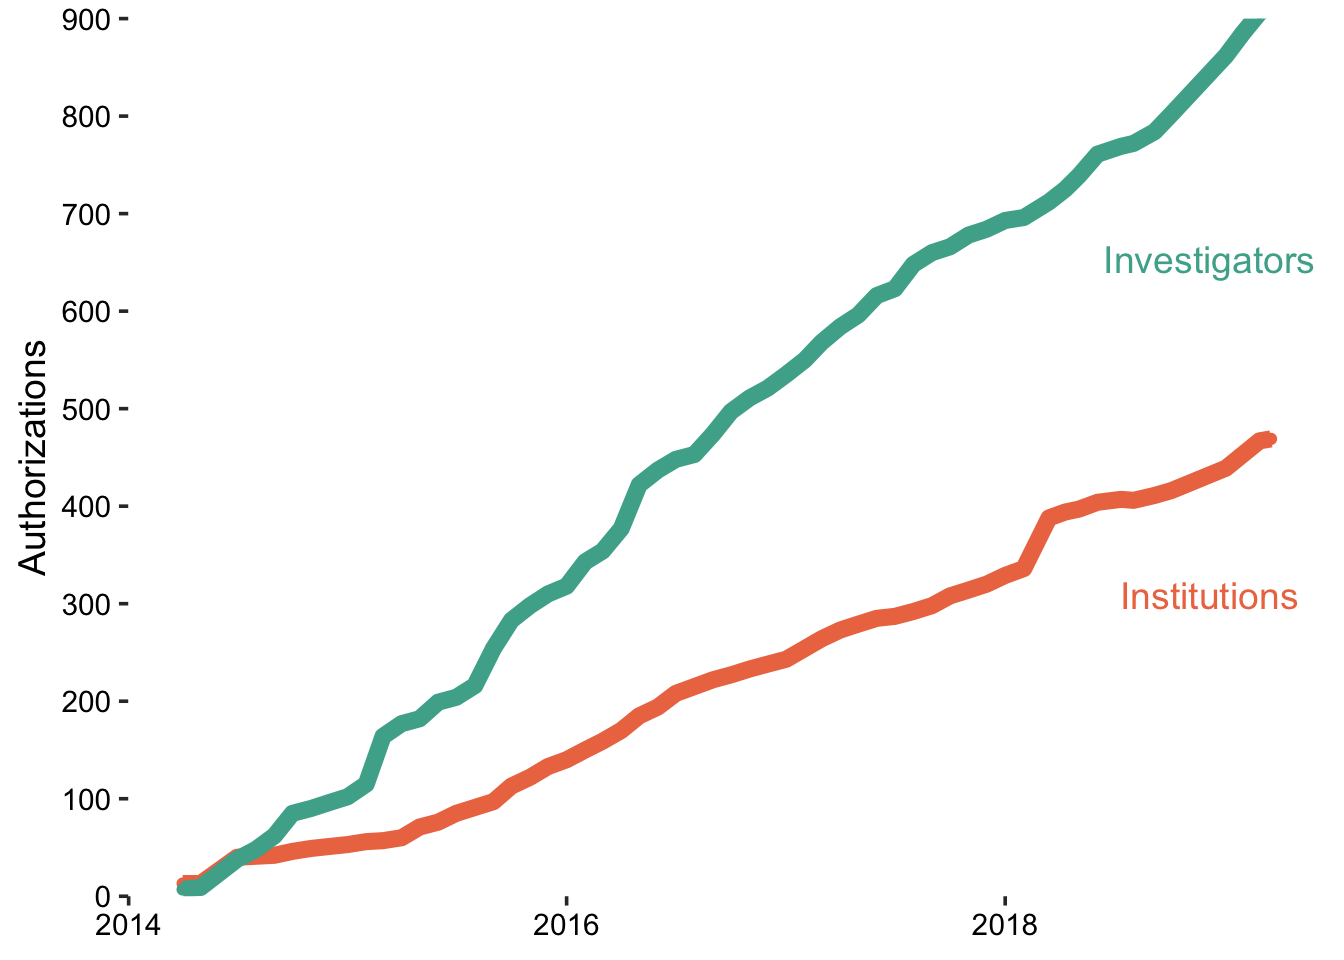
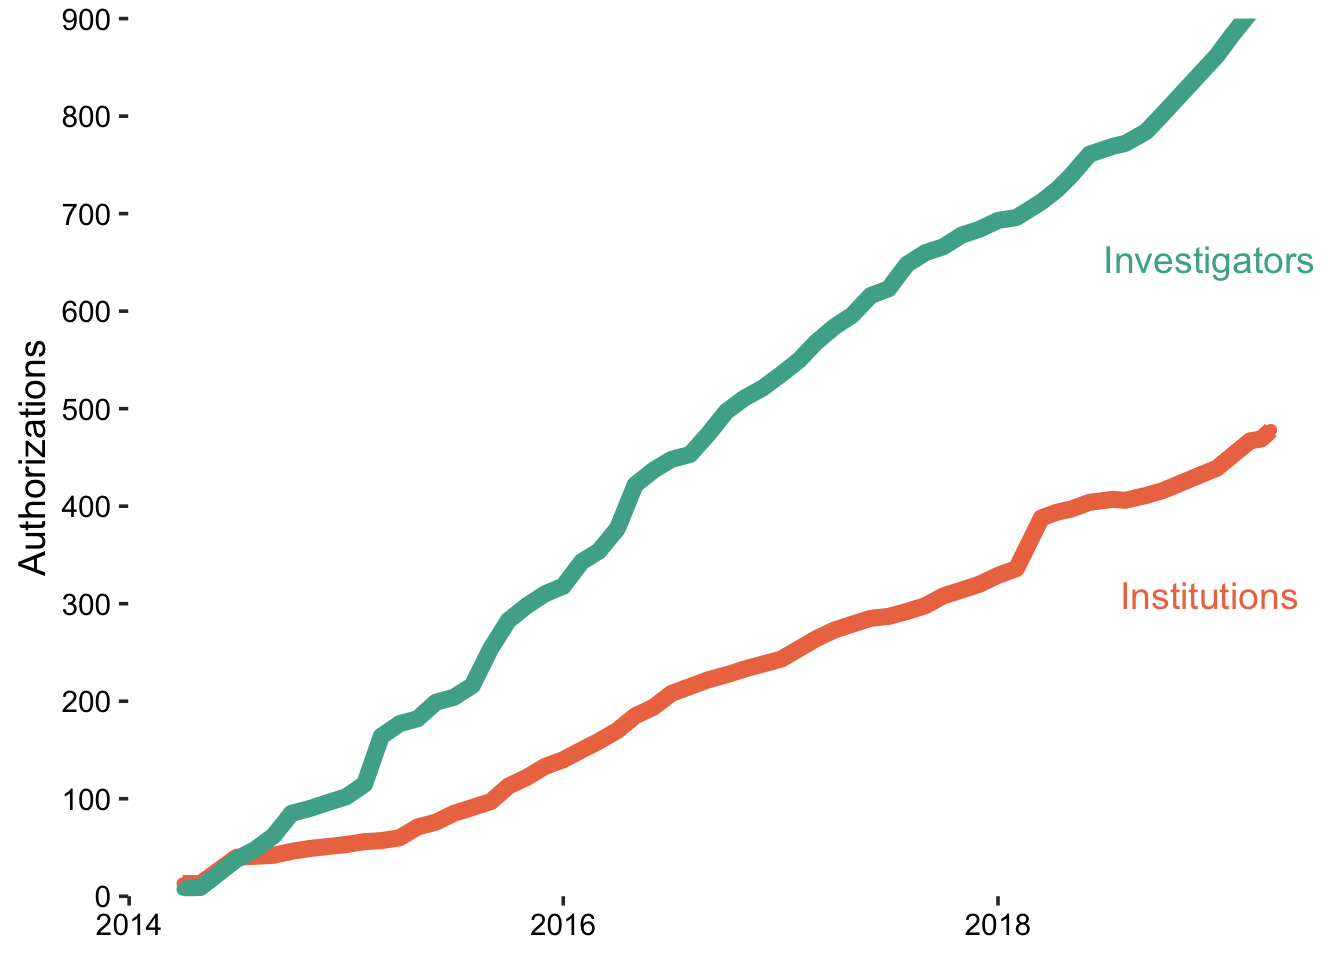
Run Databrary weekly report; fix a few bugs

diff --git a/databrary_weekly_rpt.html b/databrary_weekly_rpt.html
@@ -74,9 +74,7 @@ h6 {
 </style>
 
 
-</head>
 
-<body>
 
 <style type = "text/css">
 .main-container {
@@ -107,8 +105,6 @@ summary {
 </style>
 
 
-
-<div class="container-fluid main-container">
 
 <!-- tabsets -->
 
@@ -275,6 +271,16 @@ div.tocify {
 
 </style>
 
+
+
+</head>
+
+<body>
+
+
+<div class="container-fluid main-container">
+
+
 <!-- setup 3col/9col grid for toc_float and main content  -->
 <div class="row-fluid">
 <div class="col-xs-12 col-sm-4 col-md-3">
@@ -300,8 +306,8 @@ div.tocify {
 
 
 <h1 class="title toc-ignore">Databrary Weekly</h1>
-<h4 class="author"><em>Rick O. Gilmore</em></h4>
-<h4 class="date"><em>2019-03-20 11:04:37</em></h4>
+<h4 class="author">Rick O. Gilmore</h4>
+<h4 class="date">2019-04-05 10:21:18</h4>
 
 </div>
 
@@ -314,7 +320,7 @@ div.tocify {
 # old_stats &lt;- read_csv(&quot;csv/institutionAuthCounts.csv&quot;)
 new_stats$date &lt;- lubridate::as_datetime(new_stats$date)</code></pre>
 <p>Let’s try a Google Sheets-centered workflow. If this is the first time you are rendering this document in your current work session, please run this command to authenticate to Google from the command line, that is <strong>outside of RMarkdown</strong>:</p>
-<pre><code>db &lt;- gs_title(&#39;Databrary-analytics&#39;)</code></pre>
+<pre><code>db &lt;- googlesheets::gs_title(&#39;Databrary-analytics&#39;)</code></pre>
 <pre class="r"><code>key &lt;- &quot;1tvlIQzULrMtXo97aJu71ljdTmNXkwwpU9eOOasVer3g&quot;
 db &lt;- gs_title(&#39;Databrary-analytics&#39;)</code></pre>
 <p>Now, let’s load the data about the number of institutions and investigators.</p>
@@ -339,9 +345,9 @@ updated_stats &lt;- updated_stats %&gt;%
   gather(., key = &quot;type&quot;, value = &quot;count&quot;, -date) %&gt;%
   mutate(DATE = lubridate::as_date(date)) %&gt;%
   select(DATE, count, type) %&gt;%
-  rename(date = DATE)
-
-# Plot
+  rename(date = DATE)</code></pre>
+<pre><code>## Warning: 2 failed to parse.</code></pre>
+<pre class="r"><code># Plot
 p &lt;- updated_stats %&gt;%
   ggplot(., aes(x = date, y = count, color = type, group = type)) +
   geom_point() + 
@@ -356,6 +362,8 @@ p &lt;- updated_stats %&gt;%
 ggdraw(p) + 
   draw_label(&quot;Investigators&quot;, colour = color_teal, .9, .73) +
   draw_label(&quot;Institutions&quot;, colour = color_orange, .9, .38)</code></pre>
+<pre><code>## Warning: Removed 2 rows containing missing values (geom_point).</code></pre>
+<pre><code>## Warning: Removed 2 rows containing missing values (geom_path).</code></pre>
 <p><img src="databrary_weekly_rpt_files/figure-html/db-inst-user-plot-1.png" width="672" /></p>
 <p>Next, we update the Google Sheet if <code>params$update_gs</code> is TRUE.</p>
 <pre class="r"><code>if (as.logical(params$update_gs)) {
@@ -366,7 +374,7 @@ ggdraw(p) +
 }</code></pre>
 <div id="new-investigators" class="section level2">
 <h2><span class="header-section-number">1.1</span> New investigators</h2>
-<pre class="r"><code> new_people &lt;- databraryapi::get_db_stats(type = &quot;people&quot;)
+<pre class="r"><code>new_people &lt;- databraryapi::get_db_stats(type = &quot;people&quot;)
 new_people %&gt;%
   mutate(url = paste0(&quot;https://databrary.org/party/&quot;, id)) %&gt;%
   select(., sortname, prename, affiliation, url) %&gt;%
@@ -382,40 +390,34 @@ new_people %&gt;%
 </thead>
 <tbody>
 <tr class="odd">
-<td align="left">Anggoro</td>
-<td align="left">Florencia</td>
-<td align="left">College of the Holy Cross</td>
-<td align="left"><a href="https://databrary.org/party/5179" class="uri">https://databrary.org/party/5179</a></td>
+<td align="left">Ladd</td>
+<td align="left">Kevin</td>
+<td align="left">Indiana University South Bend</td>
+<td align="left"><a href="https://databrary.org/party/5228" class="uri">https://databrary.org/party/5228</a></td>
 </tr>
 <tr class="even">
-<td align="left">Cirelli</td>
-<td align="left">Laura</td>
-<td align="left">University of Toronto Mississauga</td>
-<td align="left"><a href="https://databrary.org/party/2738" class="uri">https://databrary.org/party/2738</a></td>
+<td align="left">Jordan</td>
+<td align="left">Kerry</td>
+<td align="left">Utah State University</td>
+<td align="left"><a href="https://databrary.org/party/5234" class="uri">https://databrary.org/party/5234</a></td>
 </tr>
 <tr class="odd">
-<td align="left">Todorovic</td>
-<td align="left">Sinisa</td>
-<td align="left">Oregon State University</td>
-<td align="left"><a href="https://databrary.org/party/4743" class="uri">https://databrary.org/party/4743</a></td>
+<td align="left">Sturge-Apple</td>
+<td align="left">Melissa</td>
+<td align="left">University of Rochester</td>
+<td align="left"><a href="https://databrary.org/party/5264" class="uri">https://databrary.org/party/5264</a></td>
 </tr>
 <tr class="even">
-<td align="left">Alarcón</td>
-<td align="left">David</td>
-<td align="left">Universidad Pablo de Olavide de Sevilla</td>
-<td align="left"><a href="https://databrary.org/party/1033" class="uri">https://databrary.org/party/1033</a></td>
+<td align="left">Stieglitz</td>
+<td align="left">Jonathan</td>
+<td align="left">University of New Mexico</td>
+<td align="left"><a href="https://databrary.org/party/5261" class="uri">https://databrary.org/party/5261</a></td>
 </tr>
 <tr class="odd">
-<td align="left">Simonelli</td>
-<td align="left">Alessandra</td>
-<td align="left">University of Padua</td>
-<td align="left"><a href="https://databrary.org/party/4888" class="uri">https://databrary.org/party/4888</a></td>
-</tr>
-<tr class="even">
-<td align="left">Henshaw</td>
-<td align="left">Erin</td>
-<td align="left">Denison University</td>
-<td align="left"><a href="https://databrary.org/party/5089" class="uri">https://databrary.org/party/5089</a></td>
+<td align="left">Admin</td>
+<td align="left">Databrary</td>
+<td align="left">NYU</td>
+<td align="left"><a href="https://databrary.org/party/3341" class="uri">https://databrary.org/party/3341</a></td>
 </tr>
 </tbody>
 </table>
@@ -437,14 +439,14 @@ new_institutions %&gt;%
 </thead>
 <tbody>
 <tr class="odd">
-<td align="left">Pablo de Olavide University, Seville</td>
-<td align="left"><a href="https://www.upo.es" class="uri">https://www.upo.es</a></td>
-<td align="left"><a href="https://databrary.org/party/5211" class="uri">https://databrary.org/party/5211</a></td>
+<td align="left">Indiana University, South Bend</td>
+<td align="left"><a href="https://www.iusb.edu/" class="uri">https://www.iusb.edu/</a></td>
+<td align="left"><a href="https://databrary.org/party/5286" class="uri">https://databrary.org/party/5286</a></td>
 </tr>
 <tr class="even">
-<td align="left">University of Padua</td>
-<td align="left">NA</td>
-<td align="left"><a href="https://databrary.org/party/143" class="uri">https://databrary.org/party/143</a></td>
+<td align="left">Utah State University</td>
+<td align="left"><a href="https://www.usu.edu/" class="uri">https://www.usu.edu/</a></td>
+<td align="left"><a href="https://databrary.org/party/5280" class="uri">https://databrary.org/party/5280</a></td>
 </tr>
 </tbody>
 </table>
@@ -468,9 +470,12 @@ if (as.logical(params$update_stats)) {
   updated_vols[next_entry,] = NA
   
   updated_vols$date[next_entry] &lt;- new_stats$date
-  updated_vols$shared_volumes[next_entry] &lt;- new_stats$datasets.shared
+  if (is.null(new_stats$datasets_shared)) {
+    new_stats$datasets_shared = 0
+  }
+  updated_vols$shared_volumes[next_entry] &lt;- new_stats$datasets_shared
   updated_vols$unshared_volumes[next_entry] &lt;- 
-    new_stats$datasets.total - new_stats$datasets.shared
+    new_stats$datasets_total - new_stats$datasets_shared
 }
 updated_vols &lt;- updated_vols %&gt;%
   gather(., key = &quot;type&quot;, value = &quot;count&quot;, -date)</code></pre>
@@ -492,25 +497,27 @@ ggdraw(vols_plot) +
 <p>Next, we update the Google Sheet if <code>params$update_gs</code> is TRUE.</p>
 <pre class="r"><code>if (as.logical(params$update_gs)) {
   new_data &lt;- data_frame(date = Sys.Date(), 
-                         shared_volumes = new_stats$datasets.shared, 
-                         unshared_volumes = new_stats$datasets.total - new_stats$datasets.shared)
+                         shared_volumes = new_stats$datasets_shared, 
+                         unshared_volumes = new_stats$datasets_total - new_stats$datasets_shared)
   db &lt;- db %&gt;%
     gs_add_row(ws = &#39;volumes-shared-unshared&#39;, input = new_data)  
 } else {
   message(&quot;&#39;update_gs&#39; parameter is &#39;false&#39;, so Google Sheet data unmodified.&quot;)
-  
 }</code></pre>
 <div id="new-volumes" class="section level2">
 <h2><span class="header-section-number">2.1</span> New volumes</h2>
 <pre class="r"><code># define helper functions
 new_volumes &lt;- databraryapi::get_db_stats(type = &quot;datasets&quot;)
+if (is.null(new_volumes)) {
+  stop(&#39;New volumes data not downloaded.&#39;)
+}
 
 unnested_vols &lt;- new_volumes %&gt;%
   unnest(.) %&gt;%
   rename(., owner_name = name1, owner_id = id1) %&gt;%
-  mutate(., url = paste0(&quot;https://doi.org/&quot;, doi),
+  mutate(., url = paste0(&quot;https://nyu.databrary.org/volume/&quot;, id),
          date_created = lubridate::as_date(creation))
-
+  
 unnested_vols %&gt;%
   select(., name, date_created, owner_name, url) %&gt;%
   knitr::kable()</code></pre>
@@ -525,40 +532,52 @@ unnested_vols %&gt;%
 </thead>
 <tbody>
 <tr class="odd">
-<td align="left">Keen</td>
-<td align="left">2019-03-06</td>
-<td align="left">Adolph, Karen</td>
-<td align="left"><a href="https://doi.org/10.17910/b7.868" class="uri">https://doi.org/10.17910/b7.868</a></td>
+<td align="left">Theory of Mind and Deception</td>
+<td align="left">2019-04-04</td>
+<td align="left">Vishton, Peter</td>
+<td align="left"><a href="https://nyu.databrary.org/volume/879" class="uri">https://nyu.databrary.org/volume/879</a></td>
 </tr>
 <tr class="even">
-<td align="left">Transition from crawling to walking and infants’ actions with objects and people</td>
-<td align="left">2016-10-19</td>
-<td align="left">Karasik, Lana</td>
-<td align="left"><a href="https://doi.org/10.17910/b7.271" class="uri">https://doi.org/10.17910/b7.271</a></td>
+<td align="left">2019 Gendered Ads</td>
+<td align="left">2019-04-04</td>
+<td align="left">Vishton, Peter</td>
+<td align="left"><a href="https://nyu.databrary.org/volume/878" class="uri">https://nyu.databrary.org/volume/878</a></td>
 </tr>
 <tr class="odd">
-<td align="left">Transition from crawling to walking and infants’ actions with objects and people</td>
-<td align="left">2016-10-19</td>
-<td align="left">Adolph, Karen</td>
-<td align="left"><a href="https://doi.org/10.17910/b7.271" class="uri">https://doi.org/10.17910/b7.271</a></td>
+<td align="left">2019 Reasoning about the Self, Other, and Future Preferences</td>
+<td align="left">2019-04-04</td>
+<td align="left">Vishton, Peter</td>
+<td align="left"><a href="https://nyu.databrary.org/volume/877" class="uri">https://nyu.databrary.org/volume/877</a></td>
 </tr>
 <tr class="even">
-<td align="left">Transition from crawling to walking and infants’ actions with objects and people</td>
-<td align="left">2016-10-19</td>
-<td align="left">Tamis-LeMonda, Catherine</td>
-<td align="left"><a href="https://doi.org/10.17910/b7.271" class="uri">https://doi.org/10.17910/b7.271</a></td>
+<td align="left">Play and Learning Across a Year (PLAY) Project</td>
+<td align="left">2019-04-01</td>
+<td align="left">Adolph, Karen</td>
+<td align="left"><a href="https://nyu.databrary.org/volume/876" class="uri">https://nyu.databrary.org/volume/876</a></td>
 </tr>
 <tr class="odd">
-<td align="left">Perceiving affordances for different motor skills (other conditions)</td>
-<td align="left">2017-07-13</td>
-<td align="left">Adolph, Karen</td>
-<td align="left"><a href="https://doi.org/10.17910/b7.452" class="uri">https://doi.org/10.17910/b7.452</a></td>
+<td align="left">Play and Learning Across a Year (PLAY) Project</td>
+<td align="left">2019-04-01</td>
+<td align="left">Gilmore, Rick O.</td>
+<td align="left"><a href="https://nyu.databrary.org/volume/876" class="uri">https://nyu.databrary.org/volume/876</a></td>
 </tr>
 <tr class="even">
-<td align="left">Perceiving affordances for different motor skills</td>
-<td align="left">2017-06-30</td>
+<td align="left">Play and Learning Across a Year (PLAY) Project</td>
+<td align="left">2019-04-01</td>
+<td align="left">Soska, Kasey</td>
+<td align="left"><a href="https://nyu.databrary.org/volume/876" class="uri">https://nyu.databrary.org/volume/876</a></td>
+</tr>
+<tr class="odd">
+<td align="left">NYU Datavyu Workshop Fisher-Price 2019-04-05</td>
+<td align="left">2019-03-29</td>
 <td align="left">Adolph, Karen</td>
-<td align="left"><a href="https://doi.org/10.17910/b7.443" class="uri">https://doi.org/10.17910/b7.443</a></td>
+<td align="left"><a href="https://nyu.databrary.org/volume/875" class="uri">https://nyu.databrary.org/volume/875</a></td>
+</tr>
+<tr class="even">
+<td align="left">NYU Datavyu Workshop Fisher-Price 2019-04-05</td>
+<td align="left">2019-03-29</td>
+<td align="left">Soska, Kasey</td>
+<td align="left"><a href="https://nyu.databrary.org/volume/875" class="uri">https://nyu.databrary.org/volume/875</a></td>
 </tr>
 </tbody>
 </table>
@@ -597,7 +616,7 @@ video_stats &lt;- Reduce(function(x,y) merge(x, y, all = TRUE), video_data)</cod
 vol_info &lt;- lapply(vols, list_volume_metadata)
 vols_data &lt;- Reduce(function(x,y) merge(x, y, all = TRUE), vol_info)
 vols_joined &lt;- dplyr::left_join(vols_data, video_stats, by = c(&quot;vol_id&quot; = &quot;vol_id&quot;))</code></pre>
-<p>There are 123 volumes with DOIs (shared) that have sessions and at least one video as of today (2019-03-20 11:05:13).</p>
+<p>There are 123 volumes with DOIs (shared) that have sessions and at least one video as of today (2019-04-05 10:21:51).</p>
 <div id="number-of-videos-in-shared-volumes" class="section level2">
 <h2><span class="header-section-number">3.1</span> Number of videos in (shared) volumes</h2>
 <pre class="r"><code>vols_joined %&gt;%

diff --git a/databrary_weekly_rpt_files/navigation-1.1/codefolding.js b/databrary_weekly_rpt_files/navigation-1.1/codefolding.js
@@ -17,7 +17,7 @@ window.initializeCodeFolding = function(show) {
   var currentIndex = 1;
 
   // select all R code blocks
-  var rCodeBlocks = $('pre.r, pre.python, pre.bash, pre.sql, pre.cpp, pre.stan');
+  var rCodeBlocks = $('pre.r, pre.python, pre.bash, pre.sql, pre.cpp, pre.stan, pre.julia');
   rCodeBlocks.each(function() {
 
     // create a collapsable div to wrap the code in
